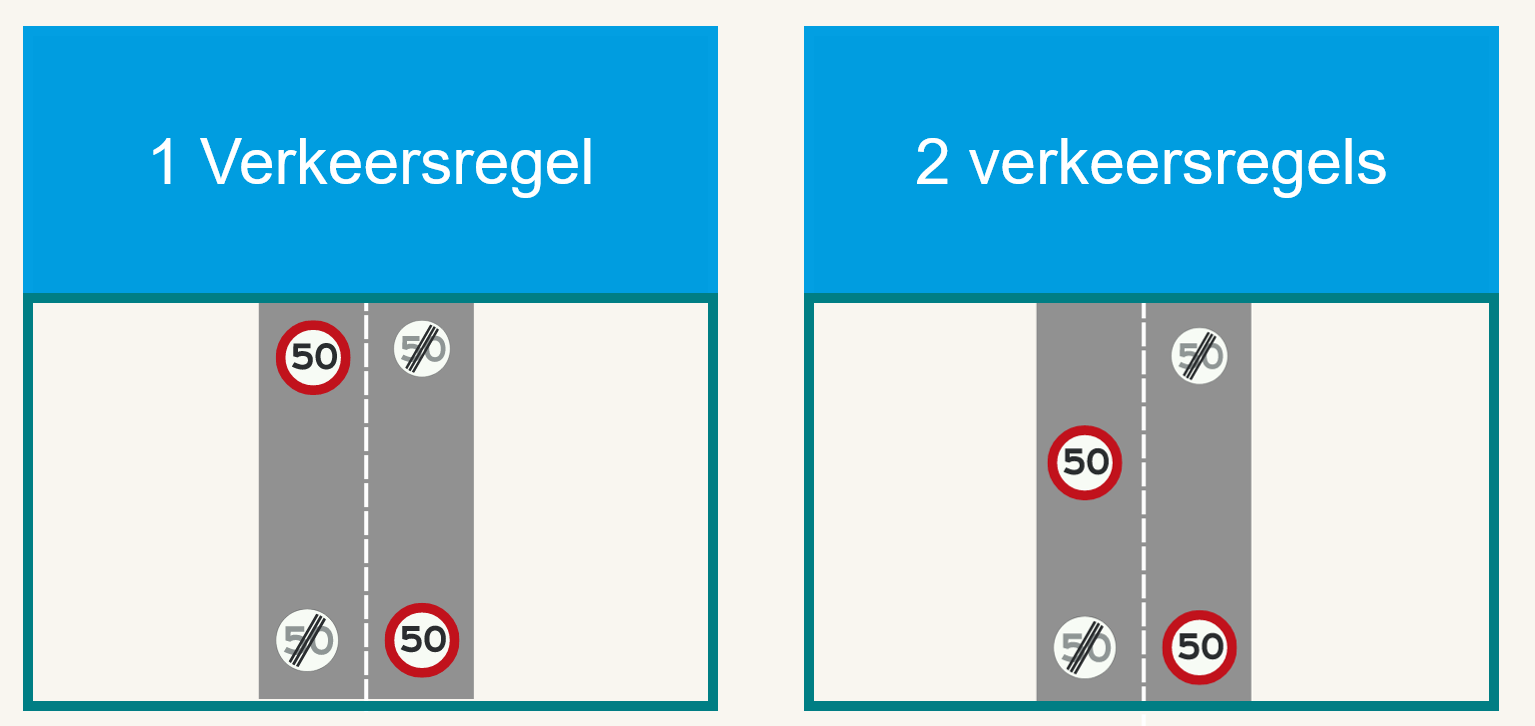
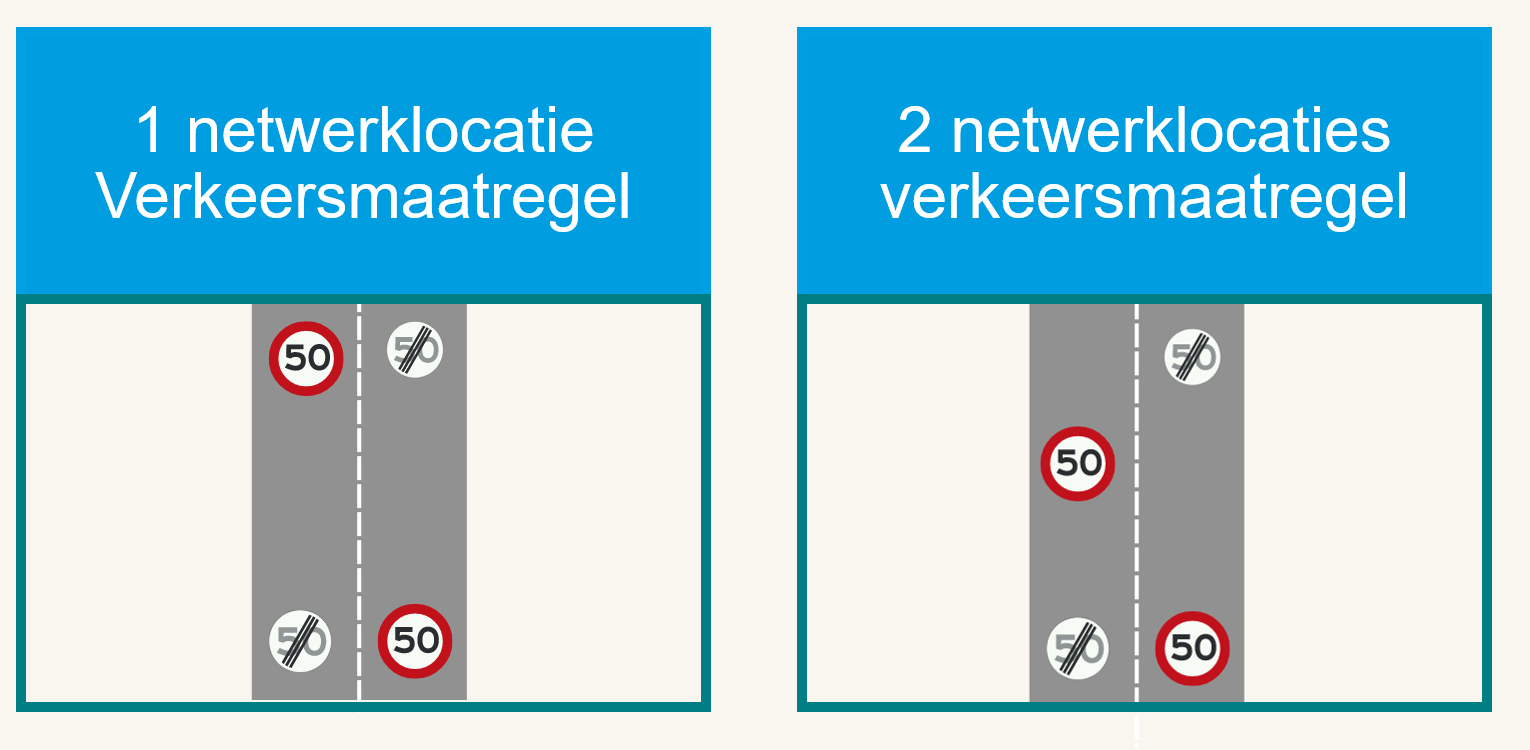
wip documentation and concept information model

diff --git a/docs/datamanagementguide/index.html b/docs/datamanagementguide/index.html
@@ -50,6 +50,7 @@
   <section data-format="markdown" data-include="hoofdstukken/1.md"></section> 
   <section data-format="markdown" data-include="hoofdstukken/2.md"></section>
   <section data-format="markdown" data-include="hoofdstukken/3.md"></section>
+  <section data-format="markdown" data-include="hoofdstukken/4.md"></section>
   <section id="index"></section>
   <section class="">
     <h2>Index van eisen</h2>

diff --git a/docs/howtodatamanagement/hoofdstukken/4.md b/docs/howtodatamanagement/hoofdstukken/4.md
@@ -2,56 +2,53 @@
 
 De aspecten zijn in dit hoofdstuk beschreven in drie categoriën:
 
-1. <b>Algemene voorwaarden</b>: Bij verkeersregels zijn vaak algemene voorwaarden van toepassing, hiermee wordt bedoeld de nadere omschrijvingen in onderborden zoals bedoeld in [Artikel 67 Reglement verkeersregels en verkeerstekens 1990 (RVV 1990)](https://wetten.overheid.nl/jci1.3:c:BWBR0004825&hoofdstuk=III&paragraaf=2&artikel=67&z=2023-07-01&g=2023-07-01), maar ook de aanduiding zone zoals in [Artikel 66 Reglement verkeersregels en verkeerstekens 1990 (RVV 1990)](https://wetten.overheid.nl/jci1.3:c:BWBR0004825&hoofdstuk=III&paragraaf=2&artikel=66&z=2023-07-01&g=2023-07-01).
+1. <b>Algemene voorwaarden</b>: Bij verkeersmaatregelen zijn vaak algemene voorwaarden van toepassing, hiermee wordt bedoeld de nadere omschrijvingen in onderborden zoals bedoeld in [Artikel 67 Reglement verkeersmaatregel  en verkeerstekens 1990 (RVV 1990)](https://wetten.overheid.nl/jci1.3:c:BWBR0004825&hoofdstuk=III&paragraaf=2&artikel=67&z=2023-07-01&g=2023-07-01), maar ook de aanduiding zone zoals in [Artikel 66 Reglement verkeersmaatregel  en verkeerstekens 1990 (RVV 1990)](https://wetten.overheid.nl/jci1.3:c:BWBR0004825&hoofdstuk=III&paragraaf=2&artikel=66&z=2023-07-01&g=2023-07-01).
 2. <b>Functionele bepalingen</b>: Deze aspecten specificeren de inhoud en reikwijdte van de verkeersmaatregel en bepalen welke acties of gedragingen zijn toegestaan, verboden, of verplicht in een bepaalde context. Voorbeelden: snelheid, parkeerverbod, geslotenverklaring.
-3. <b> bijzondere voorwaarden</b>: Verkeersregels die alleen gelden onder specifieke omstandigheden, zoals "Bij nat wegdek" of "Bij schemer en duisternis."
+3. <b>Bijzondere voorwaarden</b>: verkeersmaatregel  die alleen gelden onder specifieke omstandigheden, zoals "Bij nat wegdek" of "Bij schemer en duisternis."
 
 
 ## Algemene voorwaarden
 
+### Start- en einddatum 
+Een verkeersmaatregel kan ingaan op een specifieke begindatum, en eindigen op een specifieke einddatum. In de praktijk kan deze datum veroorzaakt worden door een verkeersbesluit, of doordat men in een tijdelijke situatie verkeersmaatregelen neemt. 
+* StartDatum,Geldigheid van verkeersmaatregel vanaf de startdatum
+* EindDatum,Geldigheid van verkeersmaatregel tot de einddatum
 
 ### Zone
 De [=verkeersmaatregel=] kan gelden voor een gehele zone. Uit welke wegvakken deze zone bestaat, kan worden gevonden via de locatie-relatie van de [=verkeersmaatregel=] met de NWB-wegvakken.
 
+### Seizoen 
+* StartGeldigheidsperiode, Geldigheid van verkeersmaatregel op specifieke kalenderdagen in het jaar, vanaf 
+* EindGeldigheidsperiode,Geldigheid van verkeersmaatregel op specifieke kalenderdagen in het jaar, tot 
 
 
-### Seizoen
-
-* Startdatum,Geldigheid van verkeersregel op specifieke kalenderdagen beginnend bij de startdatum
-* Einddatum,Geldigheid van verkeersregel op specifieke kalenderdagen eindigend op de einddatum
-
-
-
-### Uur en dag 
-
-<div class="issue" data-number="200"></div>
-
-* Starttijd,Starttijd van de geldigheid van verkeersregel op specifieke tijden
-* Eindtijd,Eindtijd van de geldigheid van verkeersregel op specifieke tijden
-
-* Dagaanduiding,geldigheid van verkeersregel op een of meer specifieke weekdagen
-
-
-
-<div class="issue" data-number="29"></div>
-
+### Dag en uur
+Een verkeersmaatregel kan gelden op bepaalde dagen, of bepaalde uren van de dag, of een combinatie. Als er op verschillende dagen verschi8llende uren gelden, moet men twee verkeersmaatregelen opnemen. 
+* Starttijd, Starttijd van de geldigheid van verkeersmaatregel 
+* Eindtijd, Eindtijd van de geldigheid van verkeersmaatregel 
+* DagenVanGeldigheid, geldigheid van verkeersmaatregel op een of meer specifieke weekdagen
 
 
 ### Voertuigtypen
 
 De verkeersmaatregel kan gelden voor specifieke voertuigen, of juist niet gelden voor specifieke voertuigen.
 
-Daarbij geldt dat het voertuigtype ofwel in de lijst staat, of dat men een eigen handmatig toegevoegde waarde kan invullen. 
+Daarbij geldt dat het voertuigtype ofwel in de RVV 1990 staat, of dat men een eigen handmatig toegevoegde waarde heeft bedacht ("bestemmingsverkeer voor huisnummers 14 en 16"). Deze eigen waarde kan met in de toelichting zetten van een verkeersmaatregel; en dan bij het aspect de optie "locatiespecifiek verkeer" invullen. 
 
-Daardoor ontstaan vier aspecten voor voertuigtypen:
+Er zijn in het informatiemodel twee aspecten:
 
-1. Geldt voor - lijst en optie "ander type"
-2. Geldt niet voor - lijst en optie "ander type"
-3. Geldt voor - handmatig ingevulde waarde
-4. Geldt niet voor - handmatig ingevulde waarde
+1. Geldt voor - lijst met optie "locatiespecifiek verkeer"
+2. Geldt niet voor - lijst met optie "locatiespecifiek verkeer" 
 
 
-## ??/ Dingen zoals snelheid, geslotenverklaring, parkeerverbod als aspect
+
+## Functionele bepalingen
+
+### Snelheid
+De snelheid in km/h is een aspect dat kan worden opgenomen bij alle verkeersmaatregelen die een snelheid voorschrijven.
+
+### Snelheidsregime
+Het snelheidsregime is in de <a href="https://wetten.overheid.nl/jci1.3:c:BWBR0004825&hoofdstuk=II&paragraaf=8&z=2023-07-01&g=2023-07-01">RVV 1990 § 8. Maximumsnelheid</a> en de <a href="https://wetten.overheid.nl/jci1.3:c:BWBR0004825&hoofdstuk=II&paragraaf=17&artikel=45&z=2023-07-01&g=2023-07-01">Artikel 45 Reglement verkeersmaatregel  en verkeerstekens 1990 (RVV 1990)</a> opgenomen in beschrijvingen over de snelheid die verschillende soorten voertuigen moeten aanhouden op verschillende soorten wegen. Dit noemen we in het informatiemodel 'snelheidsregimes". Denk aan autosnelweg, autoweg enzovoorts. 
 
 
 ## Bijzondere voorwaarden

diff --git a/docs/howtodatamanagement/hoofdstukken/5.md b/docs/howtodatamanagement/hoofdstukken/5.md
@@ -6,46 +6,48 @@
 </figure>
 
 ## Standaard wettelijke maximumsnelheid
-De <a href="https://wetten.overheid.nl/jci1.3:c:BWBR0004825&hoofdstuk=II&paragraaf=8&z=2023-07-01&g=2023-07-01">RVV 1990 § 8. Maximumsnelheid</a> geeft snelheidsregimes voor bepaalde soorten wegen, zoals autosnelwegen of wegen binnen de bebouwde kom. Daarvoor gelden [=standaard wettelijke maximumsnelheid=], afhankelijk van het voertuigtype en het [=wegdeel=] waarop men zich bevindt, met extra voorwaarden over de weginrichting bij de snelheidsregimes voor trekkers en landbouwvoertuigen. 
+De <a href="https://wetten.overheid.nl/jci1.3:c:BWBR0004825&hoofdstuk=II&paragraaf=8&z=2023-07-01&g=2023-07-01">RVV 1990 § 8. Maximumsnelheid</a> benoemt bepaalde soorten wegen, zoals autosnelwegen of wegen binnen de bebouwde kom. Daarvoor gelden [=standaard wettelijke maximumsnelheid=], afhankelijk van het voertuigtype en het [=wegdeel=] waarop men zich bevindt, met extra voorwaarden over de weginrichting bij de snelheidsregimes voor trekkers en landbouwvoertuigen. 
 
 Daarnaast wordt in <a href="https://wetten.overheid.nl/jci1.3:c:BWBR0004825&hoofdstuk=II&paragraaf=17&artikel=45&z=2023-07-01&g=2023-07-01">Artikel 45 Reglement verkeersregels en verkeerstekens 1990 (RVV 1990)</a> een snelheid opgegeven voor erven.
 
 
 De waarden die bij de snelheidsregimes horen, zoals snelheden op de rijbaan, het fietspad of het troittoir, of specifiek voor voertuigtypes, zijn niet allemaal opgenomen in het informatiemodel, deze staan in de wet. In het informatiemodel wordt alleen de snelheid voor motorvoertuigen opgegeven bij de [=standaard wettelijke maximumsnelheid=].
 
-<aside class=note>
-De <a href="https://wetten.overheid.nl/jci1.3:c:BWBR0004825&hoofdstuk=II&paragraaf=8&z=2023-07-01&g=2023-07-01">RVV 1990 § 8. Maximumsnelheid</a> geeft snelheidsregimes, met extra voorwaarden over de weginrichting bij de snelheidsregimes voor trekkers en landbouwvoertuigen.
+Bij de [=standaard wettelijke maximumsnelheid=] worden de volgende aspecten altijd toegevoegd:
+* [Snelheidsregime](#snelheidsregime) 
+* [Snelheid](#snelheid) 
 
-* De voor trekkers geldende voorwaarde **vrijliggend fiets/bromfietspad** leidt op het naastliggende wegvak tot een verkeersmaatregel met aspect gesloten voor..., en wordt daarom niet ook nog als snelheidsregime voor trekkers opgeslagen in de data.
-* De voor trekkers geldende voorwaarde **gesloten voor fietsers** moet zijn opgenomen als verkeersmaatregel met aspect gesloten voor..., en wordt daarom niet ook nog als snelheidsregime voor trekkers opgeslagen in de data.
-* De voor trekkers geldende voorwaarde **Maximum snelheid 70 km/h** moet zijn opgenomen als verkeersmaatregel met aspect lokale wettelijke maximumsnelheid, en wordt daarom niet ook nog als snelheidsregime voor trekkers opgeslagen in de data.
-
-SMART Mobility systemen voor trekkers kunnen deze voorwaarden afleiden uit de op het wegvak aanwezige verkeersmaatregelen, daarom worden geen aparte snelheidsvoorwaarden voor trekkers opgenomen in het informatiemodel. 
-</aside>
-
-<aside class="note" title="Buitenwettelijk: Speedpedelecs op fiets binnen bebouwde kom, snelheidslimiet">
-Een speedpedelec is wettelijk gezien een bromfiets. Veel wegbeheerders staan een speedpedelec toch toe op het fietspad binnen de bebouwde kom. Er is geen standaard wettelijke maximumsnelheid op het fietspad, omdat er geen bromfiets mag rijden. Om dit toch in de verkeerskundige informatie op te nemen zijn twee zaken noodzakelijk: geef bij het wegvak / wegdeel fietspad aan dat het toegankelijk is voor speedpedelecs, en neem een snelheid op (eventueel zonder bord omdat dit voor de gehele gemeente geregeld kan zijn) om de speedpedelecs te verzoeken niet te hard te rijden op een fietspad binnen de kom.
-</aside>
+Bij de [=standaard wettelijke maximumsnelheid=] worden de volgende aspecten vaak toegevoegd:
+* [Zone](#zone)
 
 
 ## Lokale wettelijke maximumsnelheid
 De verkeersborden Verkeersbord A1 en Verkeersbord A2 geven aanvullende snelheidsbeperkingen aan, en het einde van de aanvullende snelheidsbeperking. Dit leidt tot een lokaal afwijkende maximumsnelheid ten opzichte van het snelheidsregime uit de <a href="https://wetten.overheid.nl/jci1.3:c:BWBR0004825&hoofdstuk=II&paragraaf=8&z=2023-07-01&g=2023-07-01">RVV 1990 § 8. Maximumsnelheid</a>.
 
-
-## Aspecten bij snelheid
-Bij de [=lokale wettelijke maximumsnelheid=] en de [=standaard wettelijke maximumsnelheid=] kunnen de volgende aspecten worden toegevoegd:
+Bij de [=lokale wettelijke maximumsnelheid=] worden de volgende aspecten altijd toegevoegd:
 * [Snelheid](#snelheid) 
-* [Voertuigtype](#voertuigtypen) 
-* [Tijd](#tijd)
-* [Zone](#zone)
 
-Alle overige teksten die op onderborden voorkomen bij snelheidsborden, worden alleen in de data vastgelegd als ondertekst bij een snelheidsbord op een fysieke plaat, bedoeld voor menselijke interpretatie. Bijvoorbeeld "Bij nat wegdek"
+Bij de [=lokale wettelijke maximumsnelheid=] worden de volgende aspecten vaak toegevoegd:
+* [DagenVanGeldigheid](#uur-en-dag)
+* [StartTijd](#uur-en-dag)
+* [EindTijd](#uur-en-dag)
+* [Zone](#zone)
+* Schoolzone
+* BijNatWegdek
+
+
 
 ## Adviessnelheid
-
-
-Bij de Adviessnelheid kunnen de volgende aspecten worden toegevoegd:
+Bij de [=adviessnelheid=] worden de volgende aspecten altijd toegevoegd:
 * [Snelheid](#snelheid) 
+
+Bij de [=adviessnelheid=] worden de volgende aspecten vaak toegevoegd:
+* [DagenVanGeldigheid](#uur-en-dag)
+* [StartTijd](#uur-en-dag)
+* [EindTijd](#uur-en-dag)
 * [Zone](#zone)
+* Schoolzone
+* BijNatWegdek
+* BijSchemerEnDuisternis
 
 

diff --git a/docs/howtodatamanagement/hoofdstukken/2.md b/docs/howtodatamanagement/hoofdstukken/2.md
@@ -15,7 +15,7 @@ Onderstaande afbeelding geeft het schematisch weer hoe de locatie van een verkee
 
 
 #### Rijrichting
-* **rijrichting** Een verkeersregel kan gelden voor Heen en/of Terug. Als niets is ingevuld, geldt de verkeersregel in beide richtingen.
+* **rijrichting** Een verkeersmaatregel kan gelden voor Heen en/of Terug. Als niets is ingevuld, geldt de verkeersmaatregel in beide richtingen.
 
 <aside class="note" title="Richting van het geometrische NWB-wegvak versus rijrichting">
 Een geometrische representatie, de lijn, van een wegvak in het NWB heeft bij publicatie een beginpunt en een eindpunt. Dit is de geometrische richting van het wegvak. Daarnaast heeft het wegvak een of twee rijrichtingen: de richting waarop gereden mag worden. In onderstaand voorbeeld zie je dat bij het beginpunt van het wegvak een bord met verboden in te rijden staat. De rijrichting op het wegvak is in dit geval Terug. 
@@ -27,18 +27,18 @@ Een geometrische representatie, de lijn, van een wegvak in het NWB heeft bij pub
 
 #### Strooknummer
 
-* **strooknummer**  Een verkeersregel kan beperkt zijn tot één rijstrook en/of fietsstrook. Indien het wegvak in één rijrichting meerdere rijstroken heeft kan met het strooknummer aanduiden oplopend vanaf één genummerd vanuit het midden van de weg. Als er geen nummer is opgegeven, geldt de regel voor alle stroken in de rijrichtingen waarvoor de [=verkeersmaatregel=] geldt.
+* **strooknummer**  Een verkeersmaatregel kan beperkt zijn tot één rijstrook en/of fietsstrook. Indien het wegvak in één rijrichting meerdere rijstroken heeft kan met het strooknummer aanduiden oplopend vanaf één genummerd vanuit het midden van de weg. Als er geen nummer is opgegeven, geldt de regel voor alle stroken in de rijrichtingen waarvoor de [=verkeersmaatregel=] geldt.
 
 #### Werkingslengte
 
-* Werkingslengte: **fractionstart** en **fractionend** Een verkeersregel kan een gedeelte van het wegvak/rijstrook/rijrichting beslaan, dan moet een begin- en eindfractie worden ingevuld. Dit is *De fractie ten opzichte van het geometrische beginpunt van het wegvak*. Als de rijrichting Terug is, dan moet nog steeds in tegengestelde richting de fractie bepaald worden. 
+* Werkingslengte: **fractionstart** en **fractionend** Een verkeersmaatregel kan een gedeelte van het wegvak/rijstrook/rijrichting beslaan, dan moet een begin- en eindfractie worden ingevuld. Dit is *De fractie ten opzichte van het geometrische beginpunt van het wegvak*. Als de rijrichting Terug is, dan moet nog steeds in tegengestelde richting de fractie bepaald worden. 
 
-In het informatiemodel wordt ervan uitgegaan, dat de verkeersregel altijd op dezelfde plek in het wegvak begint of eindigt, je kunt dit niet per rijrichting op per wegstrook laten verschillen. Als de werkingslengte per rijrichting of rijstrook een andere begin- en eindpunt heeft ten opzichte van het NWB-wegvak, moeten er in de dataset twee verkeersregels worden aangemaakt. Onderstaande afbeelding maakt dat duidelijk.
+In het informatiemodel wordt ervan uitgegaan, dat de verkeersmaatregel altijd op dezelfde plek in het wegvak begint of eindigt, je kunt dit niet per rijrichting op per wegstrook laten verschillen. Als de werkingslengte per rijrichting of rijstrook een andere begin- en eindpunt heeft ten opzichte van het NWB-wegvak, moeten er in de dataset twee verkeersmaatregelen worden aangemaakt. Onderstaande afbeelding maakt dat duidelijk.
 
 
 <figure>
 <img src="./hoofdstukken/media/werkingslengte.PNG">
-<figcaption> In het linkervoorbeeld kun je voor het gehele wegvak opgeven welke snelheidsbeperking geldt. In het rechtervoorbeeld moet je twee verkeersregels in de dataset opnemen, omdat per rijrichting het start- en eindpunt van de werkingslengte verschilt. </caption>
+<figcaption> In het linkervoorbeeld kun je voor het gehele wegvak opgeven welke snelheidsbeperking geldt. In het rechtervoorbeeld moet je twee verkeersmaatregelen in de dataset opnemen, omdat per rijrichting het start- en eindpunt van de werkingslengte verschilt. </caption>
 </figure>
 
 

diff --git a/docs/datamanagementguide/hoofdstukken/4.md b/docs/datamanagementguide/hoofdstukken/4.md
@@ -1,0 +1,15 @@
+# Verkeersmaatregelen
+
+<aside class=note>
+De <a href="https://wetten.overheid.nl/jci1.3:c:BWBR0004825&hoofdstuk=II&paragraaf=8&z=2023-07-01&g=2023-07-01">RVV 1990 § 8. Maximumsnelheid</a> geeft snelheidsregimes, met extra voorwaarden over de weginrichting bij de snelheidsregimes voor trekkers en landbouwvoertuigen.
+
+* De voor trekkers geldende voorwaarde **vrijliggend fiets/bromfietspad** leidt op het naastliggende wegvak tot een verkeersmaatregel met aspect gesloten voor..., en wordt daarom niet ook nog als snelheidsregime voor trekkers opgeslagen in de data.
+* De voor trekkers geldende voorwaarde **gesloten voor fietsers** moet zijn opgenomen als verkeersmaatregel met aspect gesloten voor..., en wordt daarom niet ook nog als snelheidsregime voor trekkers opgeslagen in de data.
+* De voor trekkers geldende voorwaarde **Maximum snelheid 70 km/h** moet zijn opgenomen als verkeersmaatregel met aspect lokale wettelijke maximumsnelheid, en wordt daarom niet ook nog als snelheidsregime voor trekkers opgeslagen in de data.
+
+SMART Mobility systemen voor trekkers kunnen deze voorwaarden afleiden uit de op het wegvak aanwezige verkeersmaatregelen, daarom worden geen aparte snelheidsvoorwaarden voor trekkers opgenomen in het informatiemodel. 
+</aside>
+
+<aside class="note" title="Buitenwettelijk: Speedpedelecs op fiets binnen bebouwde kom, snelheidslimiet">
+Een speedpedelec is wettelijk gezien een bromfiets. Veel wegbeheerders staan een speedpedelec toch toe op het fietspad binnen de bebouwde kom. Er is geen standaard wettelijke maximumsnelheid op het fietspad, omdat er geen bromfiets mag rijden. Om dit toch in de verkeerskundige informatie op te nemen zijn twee zaken noodzakelijk: geef bij het wegvak / wegdeel fietspad aan dat het toegankelijk is voor speedpedelecs, en neem een snelheid op (eventueel zonder bord omdat dit voor de gehele gemeente geregeld kan zijn) om de speedpedelecs te verzoeken niet te hard te rijden op een fietspad binnen de kom.
+</aside>

diff --git a/docs/howtodatamanagement/hoofdstukken/6.md b/docs/howtodatamanagement/hoofdstukken/6.md
@@ -9,7 +9,7 @@
 ## Voorrang verlenen
 Op een ondergeschikte weg begint of eindigt het [=NWB-Wegvak=] op een [=NWB-junctie=] waar voorrang gegeven moet worden. Door bij de verkeersmaatregel "voorrang verlenen" op te nemen in welke rijrichting deze geldt, is voor een computer duidelijk waar voorrang verleend moet worden.
 
-## Voorrang krijgen
+## Voorrangsweg
 De verkeersmaatregel "Voorrangsweg" geldt voor het hele NWB-wegvak in beide richtingen. 
 
 Op de voorrangsweg begint of eindigt het [=NWB-Wegvak=] op een [=NWB-junctie=]; de waarschuwing "Voorrangskruispunt" geldt voor één richting, per definitie op het einde van het wegvak. Daarbij kan worden aangegeven of er een ondergeschikte weg van links en/of rechts komt.
